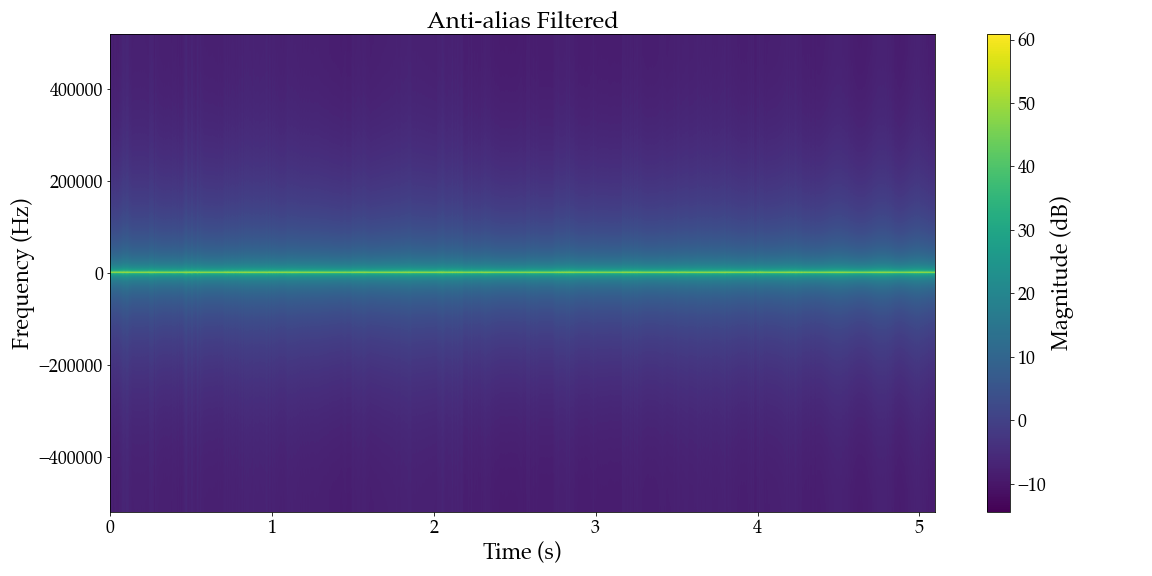
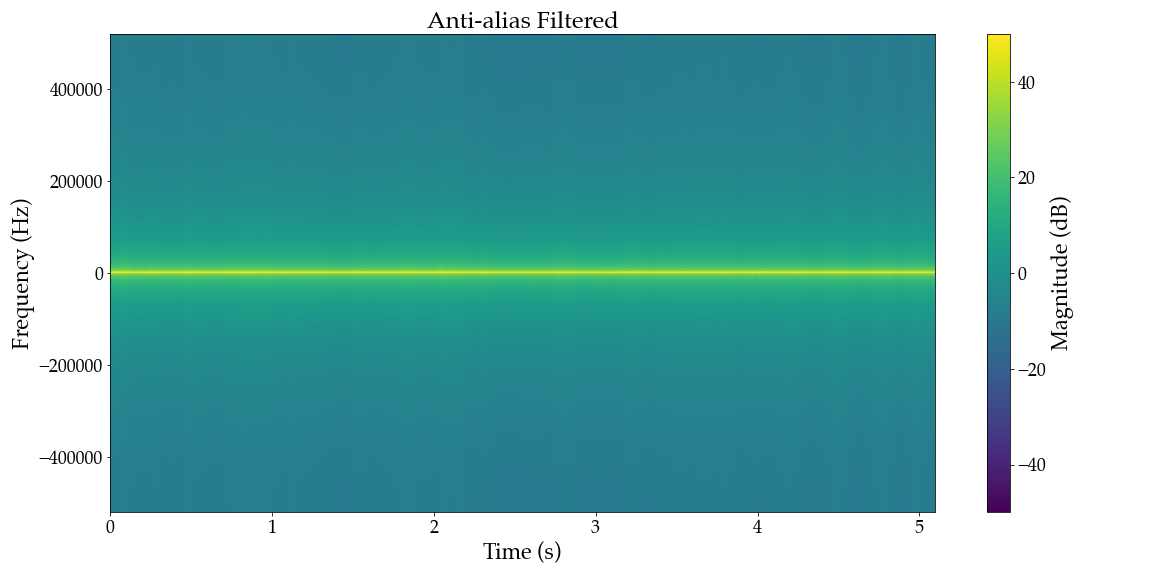
Revert plot waterfall method change to avoid divide by zero warnings that messed up the plot range.

diff --git a/am_explainer/util.py b/am_explainer/util.py
@@ -126,7 +126,7 @@ def plot_waterfall_spectrum(signal, sample_rate, window_size=1024, hop_size=512,
         fft = np.fft.fft(segment, window_size)
         if include_negative_frequencies:
             fft_shifted = np.fft.fftshift(fft)
-            waterfall[:, i] = 20 * np.log10(np.abs(fft_shifted) + 1e-9)
+            waterfall[:, i] = 20 * np.log10(np.abs(fft_shifted))
             freqs = np.fft.fftshift(np.fft.fftfreq(window_size, 1 / sample_rate))
         else:
             # Use only the first half of FFT results for positive frequencies
@@ -138,7 +138,7 @@ def plot_waterfall_spectrum(signal, sample_rate, window_size=1024, hop_size=512,
         extent = (segment_times[0], segment_times[-1], freqs[0], freqs[-1])
     else:
         extent = (segment_times[0], segment_times[-1], 0, freqs[-1])
-    mappable = plt.imshow(waterfall, extent=extent, aspect='auto', cmap='viridis', origin='lower')
+    mappable = plt.imshow(waterfall, extent=extent, aspect='auto', cmap='viridis', origin='lower', vmin=-50, vmax=50)
     colorbar = plt.colorbar(label='Magnitude (dB)')
     plt.xlabel('Time (s)')
     plt.ylabel('Frequency (Hz)')

diff --git a/am_explainer/am.py b/am_explainer/am.py
@@ -4,6 +4,8 @@
 # title: "ML In Practice Part 1: AM Radio"
 # maintitle: "ML In Practice"
 # subtitle: "Part 1: AM Radio"
+# images: ['static/cover.webp']
+# description: "Begin the journey to build an ML model for enhanced AM radio reception with a crash course on AM radio fundamentals."
 # repo: https://github.com/ccostes/ml/tree/main/am_explainer
 # jupyter:
 #   jupytext:

diff --git a/am_explainer/index.md b/am_explainer/index.md
@@ -148,7 +148,7 @@ plot_waterfall_spectrum(decimated, sr_aud, include_negative_frequencies=False, t
 
 ![Decimated Signal](gen/decimated.png)
 The spectrogram of the decimated signal shows the new frequency range of up to about 4 kHz, and you can also see the audio data. With just these two steps we are actually quite close to the desired audio, as you can start to hear below, but there's clearly something wrong.
-<audio controls src="decimated.wav"></audio>
+<audio controls src="gen/decimated.wav"></audio>
 You might be able to guess what the problem is from the spectrogram of the decimated signal, but recall that AM signal is comprised on a carrier wave modulated by the audio signal. That carrier wave is still present, visible as the bright continuous line around 200 Hz on the spectrogram, which is why the audio sounds distorted.
 
 ### Demodulation
